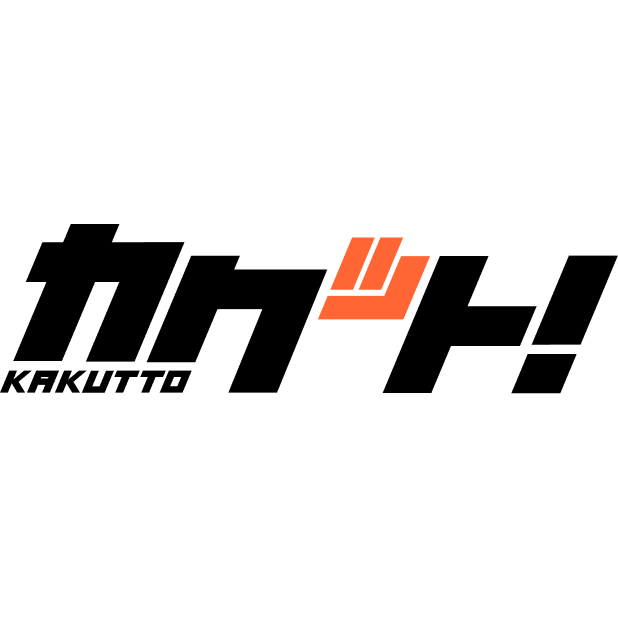
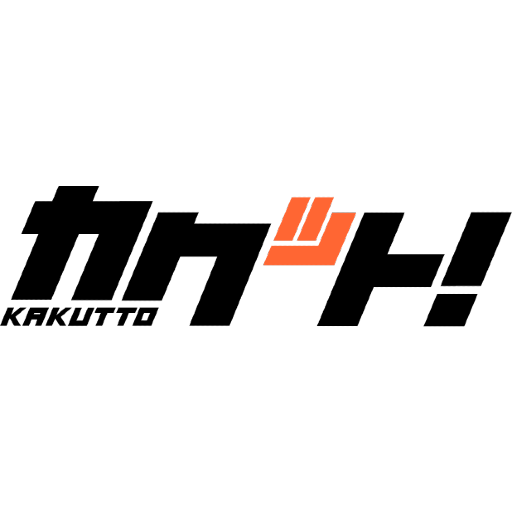
アイコン差し替え＆5.5インチ端末最適化

diff --git a/public/privacypolicy.html b/public/privacypolicy.html
@@ -1,0 +1,79 @@
+<html>
+    <body>
+        プライバシーポリシー <br>
+        <br>
+        せっきーカンパニー（以下，「当社」といいます。）は，本ウェブサイト上で提供するサービス（以下,「本サービス」といいます。）における，ユーザーの個人情報の取扱いについて，以下のとおりプライバシーポリシー（以下，「本ポリシー」といいます。）を定めます。<br>
+        <br>
+        第1条（個人情報）<br>
+        「個人情報」とは，個人情報保護法にいう「個人情報」を指すものとし，生存する個人に関する情報であって，当該情報に含まれる氏名，生年月日，住所，電話番号，連絡先その他の記述等により特定の個人を識別できる情報及び容貌，指紋，声紋にかかるデータ，及び健康保険証の保険者番号などの当該情報単体から特定の個人を識別できる情報（個人識別情報）を指します。<br>
+        <br>
+        第2条（個人情報の収集方法）<br>
+        当社は，ユーザーが利用登録をする際に電話番号，メールアドレスなどの個人情報をお尋ねすることがあります。<br>
+        また「カクット〜ボクシング・K-1・RIZIN勝敗予想アプリ〜」は、Googleアナリティクスを使用してユーザーの使用状況を把握しています。 Google Analyticsを使用して収集されたデータは、Googleのプライバシーポリシーに基づいて管理されます。<br>
+        · Firebase向けGoogle Analytics (Google Inc.)<br>
+        <a href="https://policies.google.com/privacy">https://policies.google.com/privacy</a><br>
+        <br>
+        第3条（個人情報を収集・利用する目的）<br>
+        当社が個人情報を収集・利用する目的は，以下のとおりです。<br>
+        <br>
+        当社サービスの提供・運営のため<br>
+        ユーザーからのお問い合わせに回答するため（本人確認を行うことを含む）<br>
+        利用規約に違反したユーザーや，不正・不当な目的でサービスを利用しようとするユーザーの特定をし，ご利用をお断りするため<br>
+        ユーザーにご自身の登録情報の閲覧や変更，削除，ご利用状況の閲覧を行っていただくため<br>
+        上記の利用目的に付随する目的<br>
+        <br>
+        第4条（利用目的の変更）<br>
+        当社は，利用目的が変更前と関連性を有すると合理的に認められる場合に限り，個人情報の利用目的を変更するものとします。<br>
+        利用目的の変更を行った場合には，変更後の目的について，当社所定の方法により，ユーザーに通知するものとします。<br>
+        <br>
+        第5条（個人情報の第三者提供）<br>
+        当社は，次に掲げる場合を除いて，あらかじめユーザーの同意を得ることなく，第三者に個人情報を提供することはありません。ただし，個人情報保護法その他の法令で認められる場合を除きます。<br>
+        人の生命，身体または財産の保護のために必要がある場合であって，本人の同意を得ることが困難であるとき<br>
+        公衆衛生の向上または児童の健全な育成の推進のために特に必要がある場合であって，本人の同意を得ることが困難であるとき<br>
+        国の機関もしくは地方公共団体またはその委託を受けた者が法令の定める事務を遂行することに対して協力する必要がある場合であって，本人の同意を得ることにより当該事務の遂行に支障を及ぼすおそれがあるとき<br>
+        予め次の事項を告知あるいは公表し，かつ当社が個人情報保護委員会に届出をしたとき<br>
+        利用目的に第三者への提供を含むこと<br>
+        第三者に提供されるデータの項目<br>
+        第三者への提供の手段または方法<br>
+        本人の求めに応じて個人情報の第三者への提供を停止すること<br>
+        本人の求めを受け付ける方法<br>
+        前項の定めにかかわらず，次に掲げる場合には，当該情報の提供先は第三者に該当しないものとします。<br>
+        当社が利用目的の達成に必要な範囲内において個人情報の取扱いの全部または一部を委託する場合<br>
+        合併その他の事由による事業の承継に伴って個人情報が提供される場合<br>
+        個人情報を特定の者との間で共同して利用する場合であって，その旨並びに共同して利用される個人情報の項目，共同して利用する者の範囲，利用する者の利用目的および当該個人情報の管理について責任を有する者の氏名または名称について，あらかじめ本人に通知し，または本人が容易に知り得る状態に置いた場合<br>
+        <br>
+        第6条（個人情報の開示）<br>
+        当社は，本人から個人情報の開示を求められたときは，本人に対し，遅滞なくこれを開示します。ただし，開示することにより次のいずれかに該当する場合は，その全部または一部を開示しないこともあり，開示しない決定をした場合には，その旨を遅滞なく通知します。なお，個人情報の開示に際しては，1件あたり1，000円の手数料を申し受けます。<br>
+        本人または第三者の生命，身体，財産その他の権利利益を害するおそれがある場合<br>
+        当社の業務の適正な実施に著しい支障を及ぼすおそれがある場合<br>
+        その他法令に違反することとなる場合<br>
+        前項の定めにかかわらず，履歴情報および特性情報などの個人情報以外の情報については，原則として開示いたしません。<br>
+        <br>
+        第7条（個人情報の訂正および削除）<br>
+        ユーザーは，当社の保有する自己の個人情報が誤った情報である場合には，当社が定める手続きにより，当社に対して個人情報の訂正，追加または削除（以下，「訂正等」といいます。）を請求することができます。<br>
+        当社は，ユーザーから前項の請求を受けてその請求に応じる必要があると判断した場合には，遅滞なく，当該個人情報の訂正等を行うものとします。<br>
+        当社は，前項の規定に基づき訂正等を行った場合，または訂正等を行わない旨の決定をしたときは遅滞なく，これをユーザーに通知します。<br>
+        <br>
+        第8条（個人情報の利用停止等）<br>
+        当社は，本人から，個人情報が，利用目的の範囲を超えて取り扱われているという理由，または不正の手段により取得されたものであるという理由により，その利用の停止または消去（以下，「利用停止等」といいます。）を求められた場合には，遅滞なく必要な調査を行います。<br>
+        前項の調査結果に基づき，その請求に応じる必要があると判断した場合には，遅滞なく，当該個人情報の利用停止等を行います。<br>
+        当社は，前項の規定に基づき利用停止等を行った場合，または利用停止等を行わない旨の決定をしたときは，遅滞なく，これをユーザーに通知します。<br>
+        前2項にかかわらず，利用停止等に多額の費用を有する場合その他利用停止等を行うことが困難な場合であって，ユーザーの権利利益を保護するために必要なこれに代わるべき措置をとれる場合は，この代替策を講じるものとします。<br>
+        <br>
+        第9条（プライバシーポリシーの変更）<br>
+        本ポリシーの内容は，法令その他本ポリシーに別段の定めのある事項を除いて，ユーザーに通知することなく，変更することができるものとします。<br>
+        当社が別途定める場合を除いて，変更後のプライバシーポリシーは，本ウェブサイトに掲載したときから効力を生じるものとします。<br>
+        <br>
+        第10条（児童オンラインプライバシー保護）<br>
+        「カクット〜ボクシング・K-1・RIZIN勝敗予想アプリ〜」は、児童オンラインプライバシー保護法（「COPPA」）のあらゆる側面を順守することを約束します。<br>
+        「カクット〜ボクシング・K-1・RIZIN勝敗予想アプリ〜」は、13歳未満の人から故意に個人情報を収集または勧誘したり、そのような人が当社のサービスを使用することを故意に許可したりすることはありません。<br>
+        13歳未満の場合は、親の同意なく弊社のサービスを使用したり、ユーザに関する個人情報を弊社に送信したりしないでください。13歳未満の人は、「カクット〜ボクシング・K-1・RIZIN勝敗予想アプリ〜」に個人情報を提供できません。親の同意を確認せずに13歳未満の子供から個人情報を収集したことが判明した場合、収集したすべての個人情報を削除します。<br>
+        <br>
+        第11条（お問い合わせ窓口）<br>
+        本ポリシーに関するお問い合わせは，下記の窓口までお願いいたします。<br>
+        <br>
+        社名：せっきーカンパニー<br>
+        Eメールアドレス：hidemitsu.sekiyama@gmail.com<br>
+        <br>
+    </body>
+</html>

diff --git a/lib/widgets/bout_list/bouts_detail.dart b/lib/widgets/bout_list/bouts_detail.dart
@@ -49,14 +49,15 @@ class _MyFirestorePageState extends State<BoutDetail> {
         child: Column(
           children: <Widget>[
             Expanded(
-                child: Column(children: [
+                child: ListView(scrollDirection: Axis.vertical, children: [
               Container(
+                alignment: Alignment.center,
                 margin: EdgeInsets.fromLTRB(4, 12, 4, 6),
                 child: Text(fightDateText + " / " + boutName,
                     style: TextStyle(fontWeight: FontWeight.bold)),
               ),
               Container(
-                width: MediaQuery.of(context).size.width * 0.95,
+                margin: EdgeInsets.only(left: 8, right: 8),
                 child: Card(
                   shape: RoundedRectangleBorder(
                     borderRadius: BorderRadius.circular(10.0),
@@ -330,6 +331,7 @@ class _MyFirestorePageState extends State<BoutDetail> {
                       children: <TableRow>[
                         TableRow(children: <Widget>[
                           Container(
+                            height: 53,
                             decoration: BoxDecoration(
                               border: const Border(
                                 right: const BorderSide(
@@ -353,6 +355,7 @@ class _MyFirestorePageState extends State<BoutDetail> {
                             ),
                           ),
                           Container(
+                            height: 53,
                             decoration: BoxDecoration(
                               border: const Border(
                                 bottom: const BorderSide(

diff --git a/lib/widgets/other/vote_result_list.dart b/lib/widgets/other/vote_result_list.dart
@@ -61,7 +61,7 @@ class _MyFirestorePageState extends State<VoteResultList> {
             Container(
               width: MediaQuery.of(context).size.width * 0.94,
               margin: EdgeInsets.all(8),
-              padding: EdgeInsets.all(12),
+              padding: EdgeInsets.only(top: 12, left: 12, bottom: 12, right: 8),
               decoration: BoxDecoration(
                   borderRadius: BorderRadius.circular(8.0),
                   color: Color(0xffFFF9B5)),
@@ -74,9 +74,9 @@ class _MyFirestorePageState extends State<VoteResultList> {
                       child: _displaySelectionImageOrGrayImage()),
                   Column(children: [
                     Container(
-                        width: 300,
+                        width: 280,
                         height: 30,
-                        padding: EdgeInsets.only(left: 6),
+                        padding: EdgeInsets.only(left: 6, right: 20),
                         alignment: Alignment.centerLeft,
                         decoration: BoxDecoration(
                             borderRadius: BorderRadius.circular(4.0),
@@ -85,7 +85,7 @@ class _MyFirestorePageState extends State<VoteResultList> {
                             style: TextStyle(
                                 fontWeight: FontWeight.bold, fontSize: 16))),
                     Container(
-                        width: 300,
+                        width: 280,
                         alignment: Alignment.centerLeft,
                         child: Text('${title}',
                             style:

diff --git a/lib/widgets/bout_list/add_bout_info.dart b/lib/widgets/bout_list/add_bout_info.dart
@@ -245,6 +245,7 @@ class _MyFirestorePageState extends State<AddBoutInfo> {
                 padding: EdgeInsets.fromLTRB(0, 6, 0, 0),
                 child: TextFormField(
                   autofocus: false,
+                  maxLength: 20,
                   cursorColor: Colors.black,
                   style: new TextStyle(
                     fontSize: 20.0,
@@ -287,6 +288,7 @@ class _MyFirestorePageState extends State<AddBoutInfo> {
                 margin: EdgeInsets.only(top: 00, bottom: 10, left: 8, right: 8),
                 padding: EdgeInsets.fromLTRB(0, 6, 0, 0),
                 child: TextFormField(
+                  maxLength: 20,
                   autofocus: false,
                   cursorColor: Colors.black,
                   style: new TextStyle(

diff --git a/public/index.html b/public/index.html
@@ -1,0 +1,12 @@
+<!DOCTYPE html>
+<html>
+  <head>
+    <meta charset="utf-8">
+    <meta name="viewport" content="width=device-width, initial-scale=1">
+    <title>カクットサポートページ</title>
+  </head>
+  <body>
+    なにか問題がありましたら、以下にご連絡下さい。<br>
+    sekky.mitchan@gmail.com
+  </body>
+</html>
